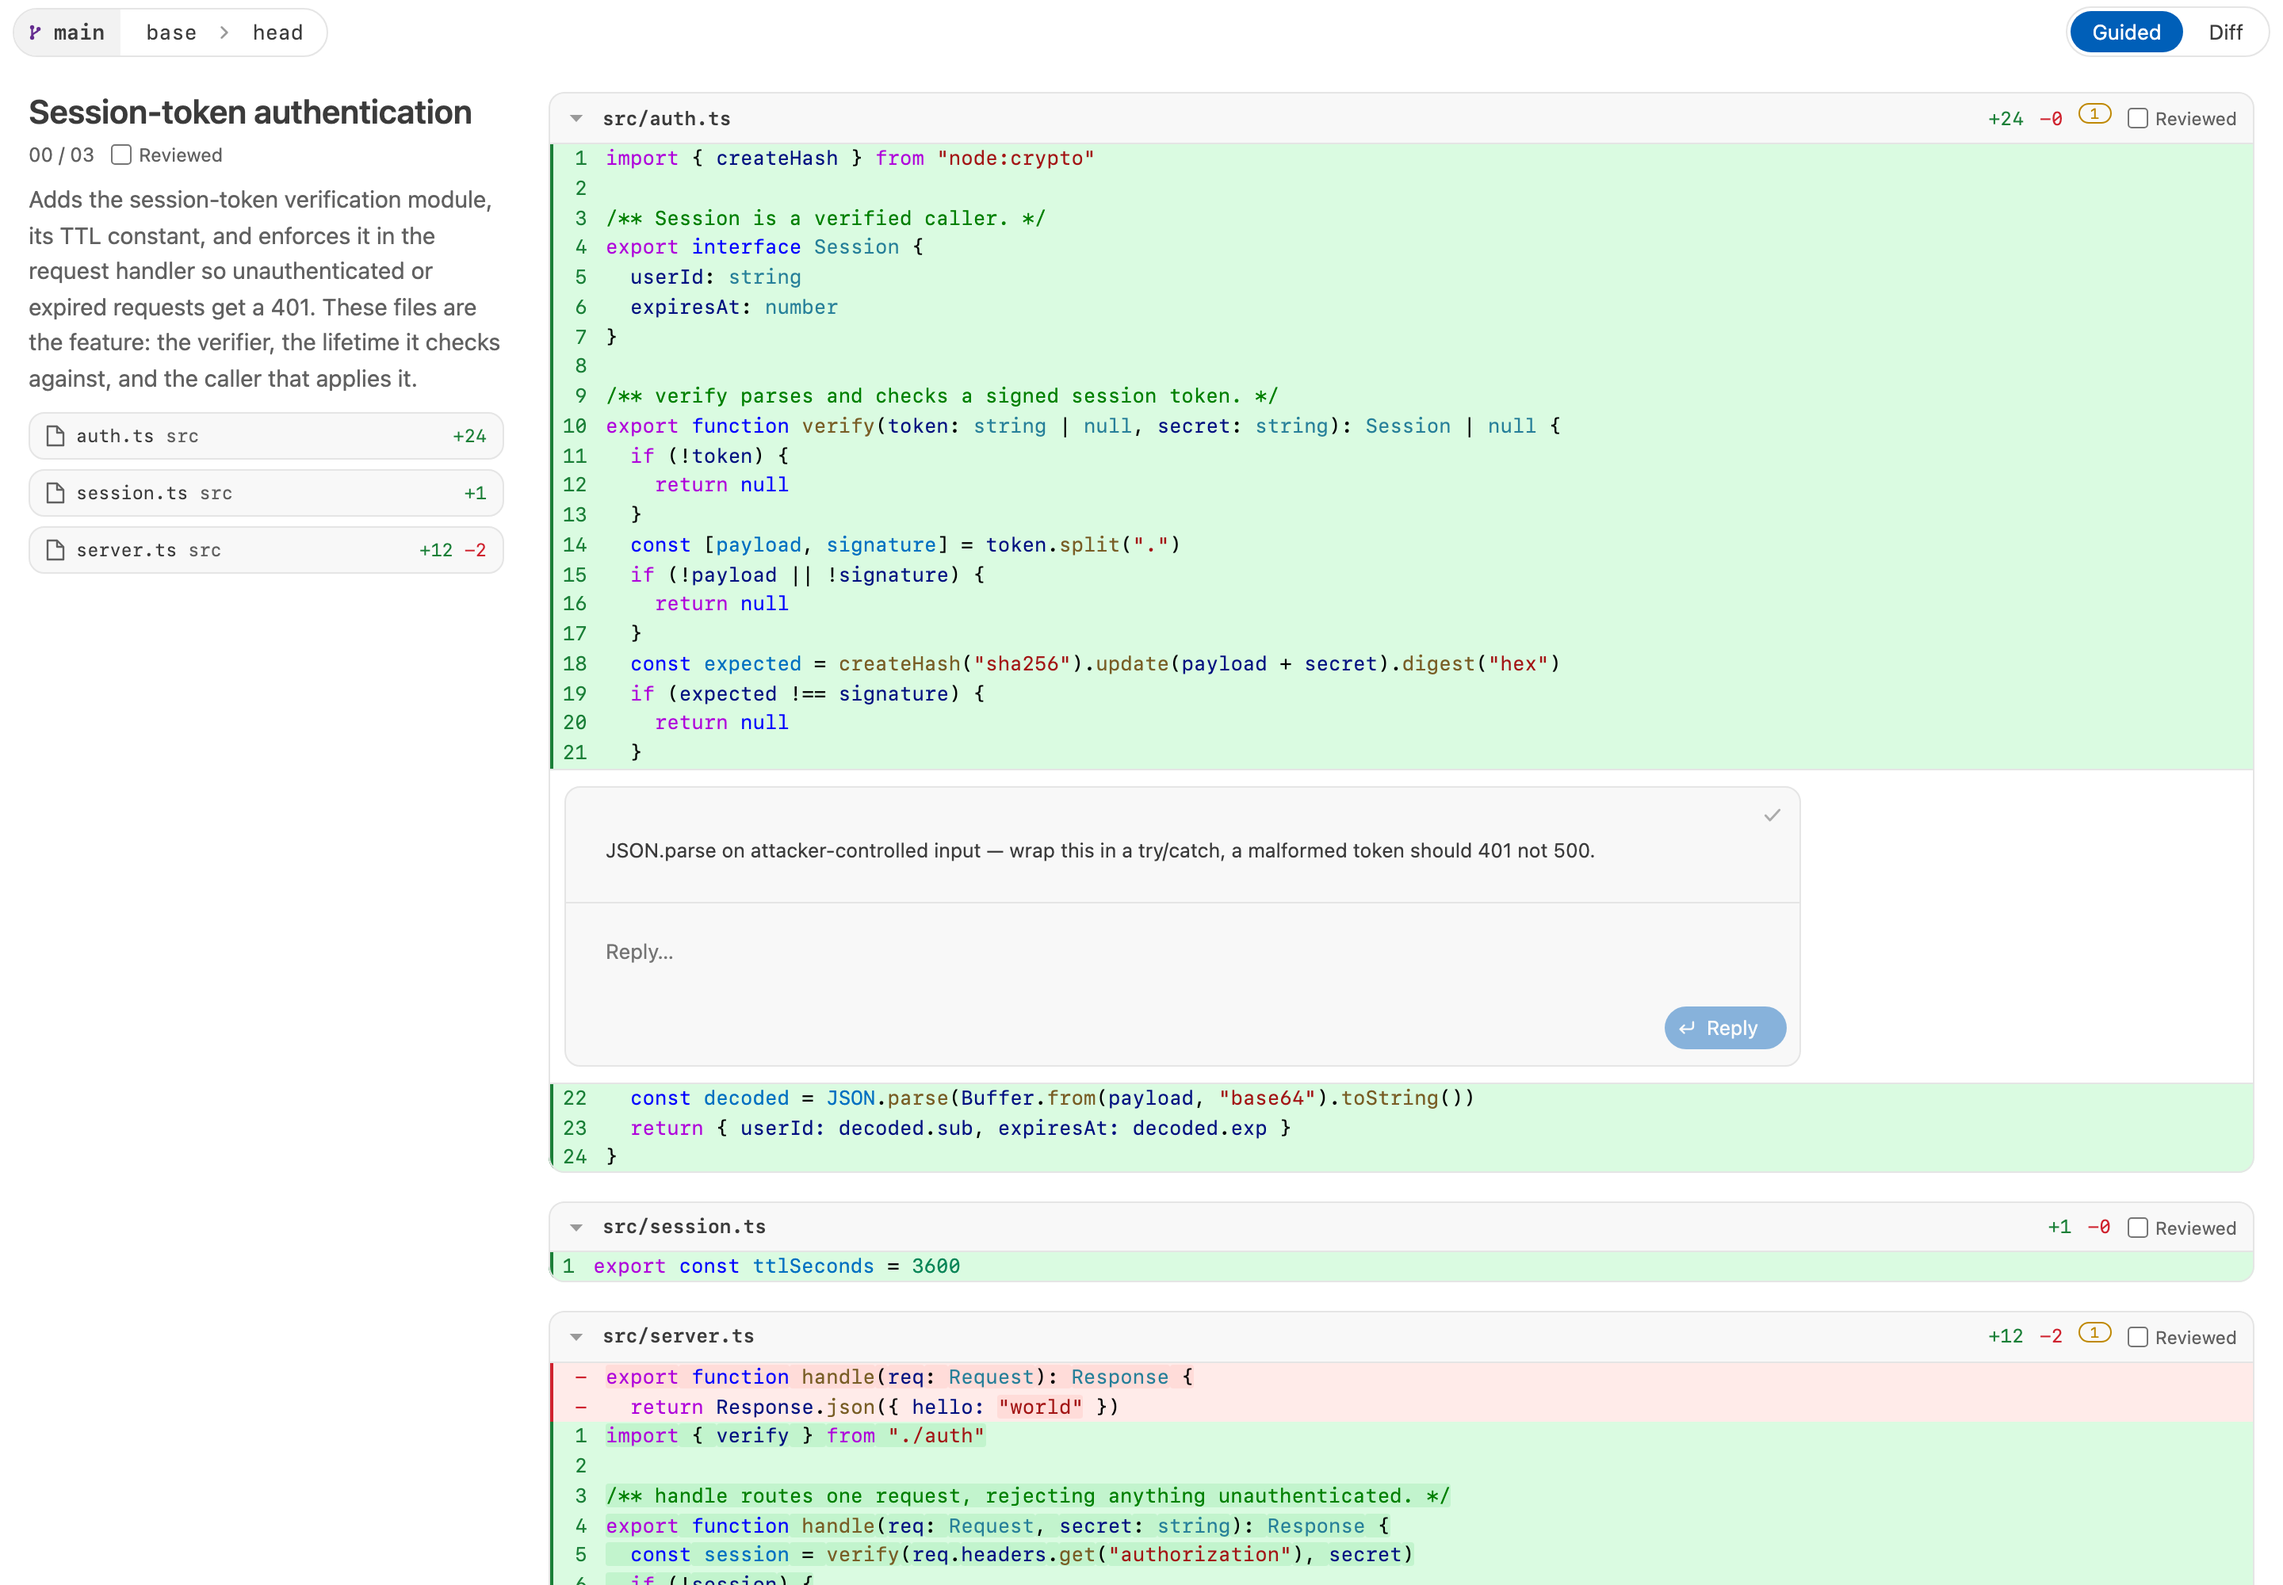
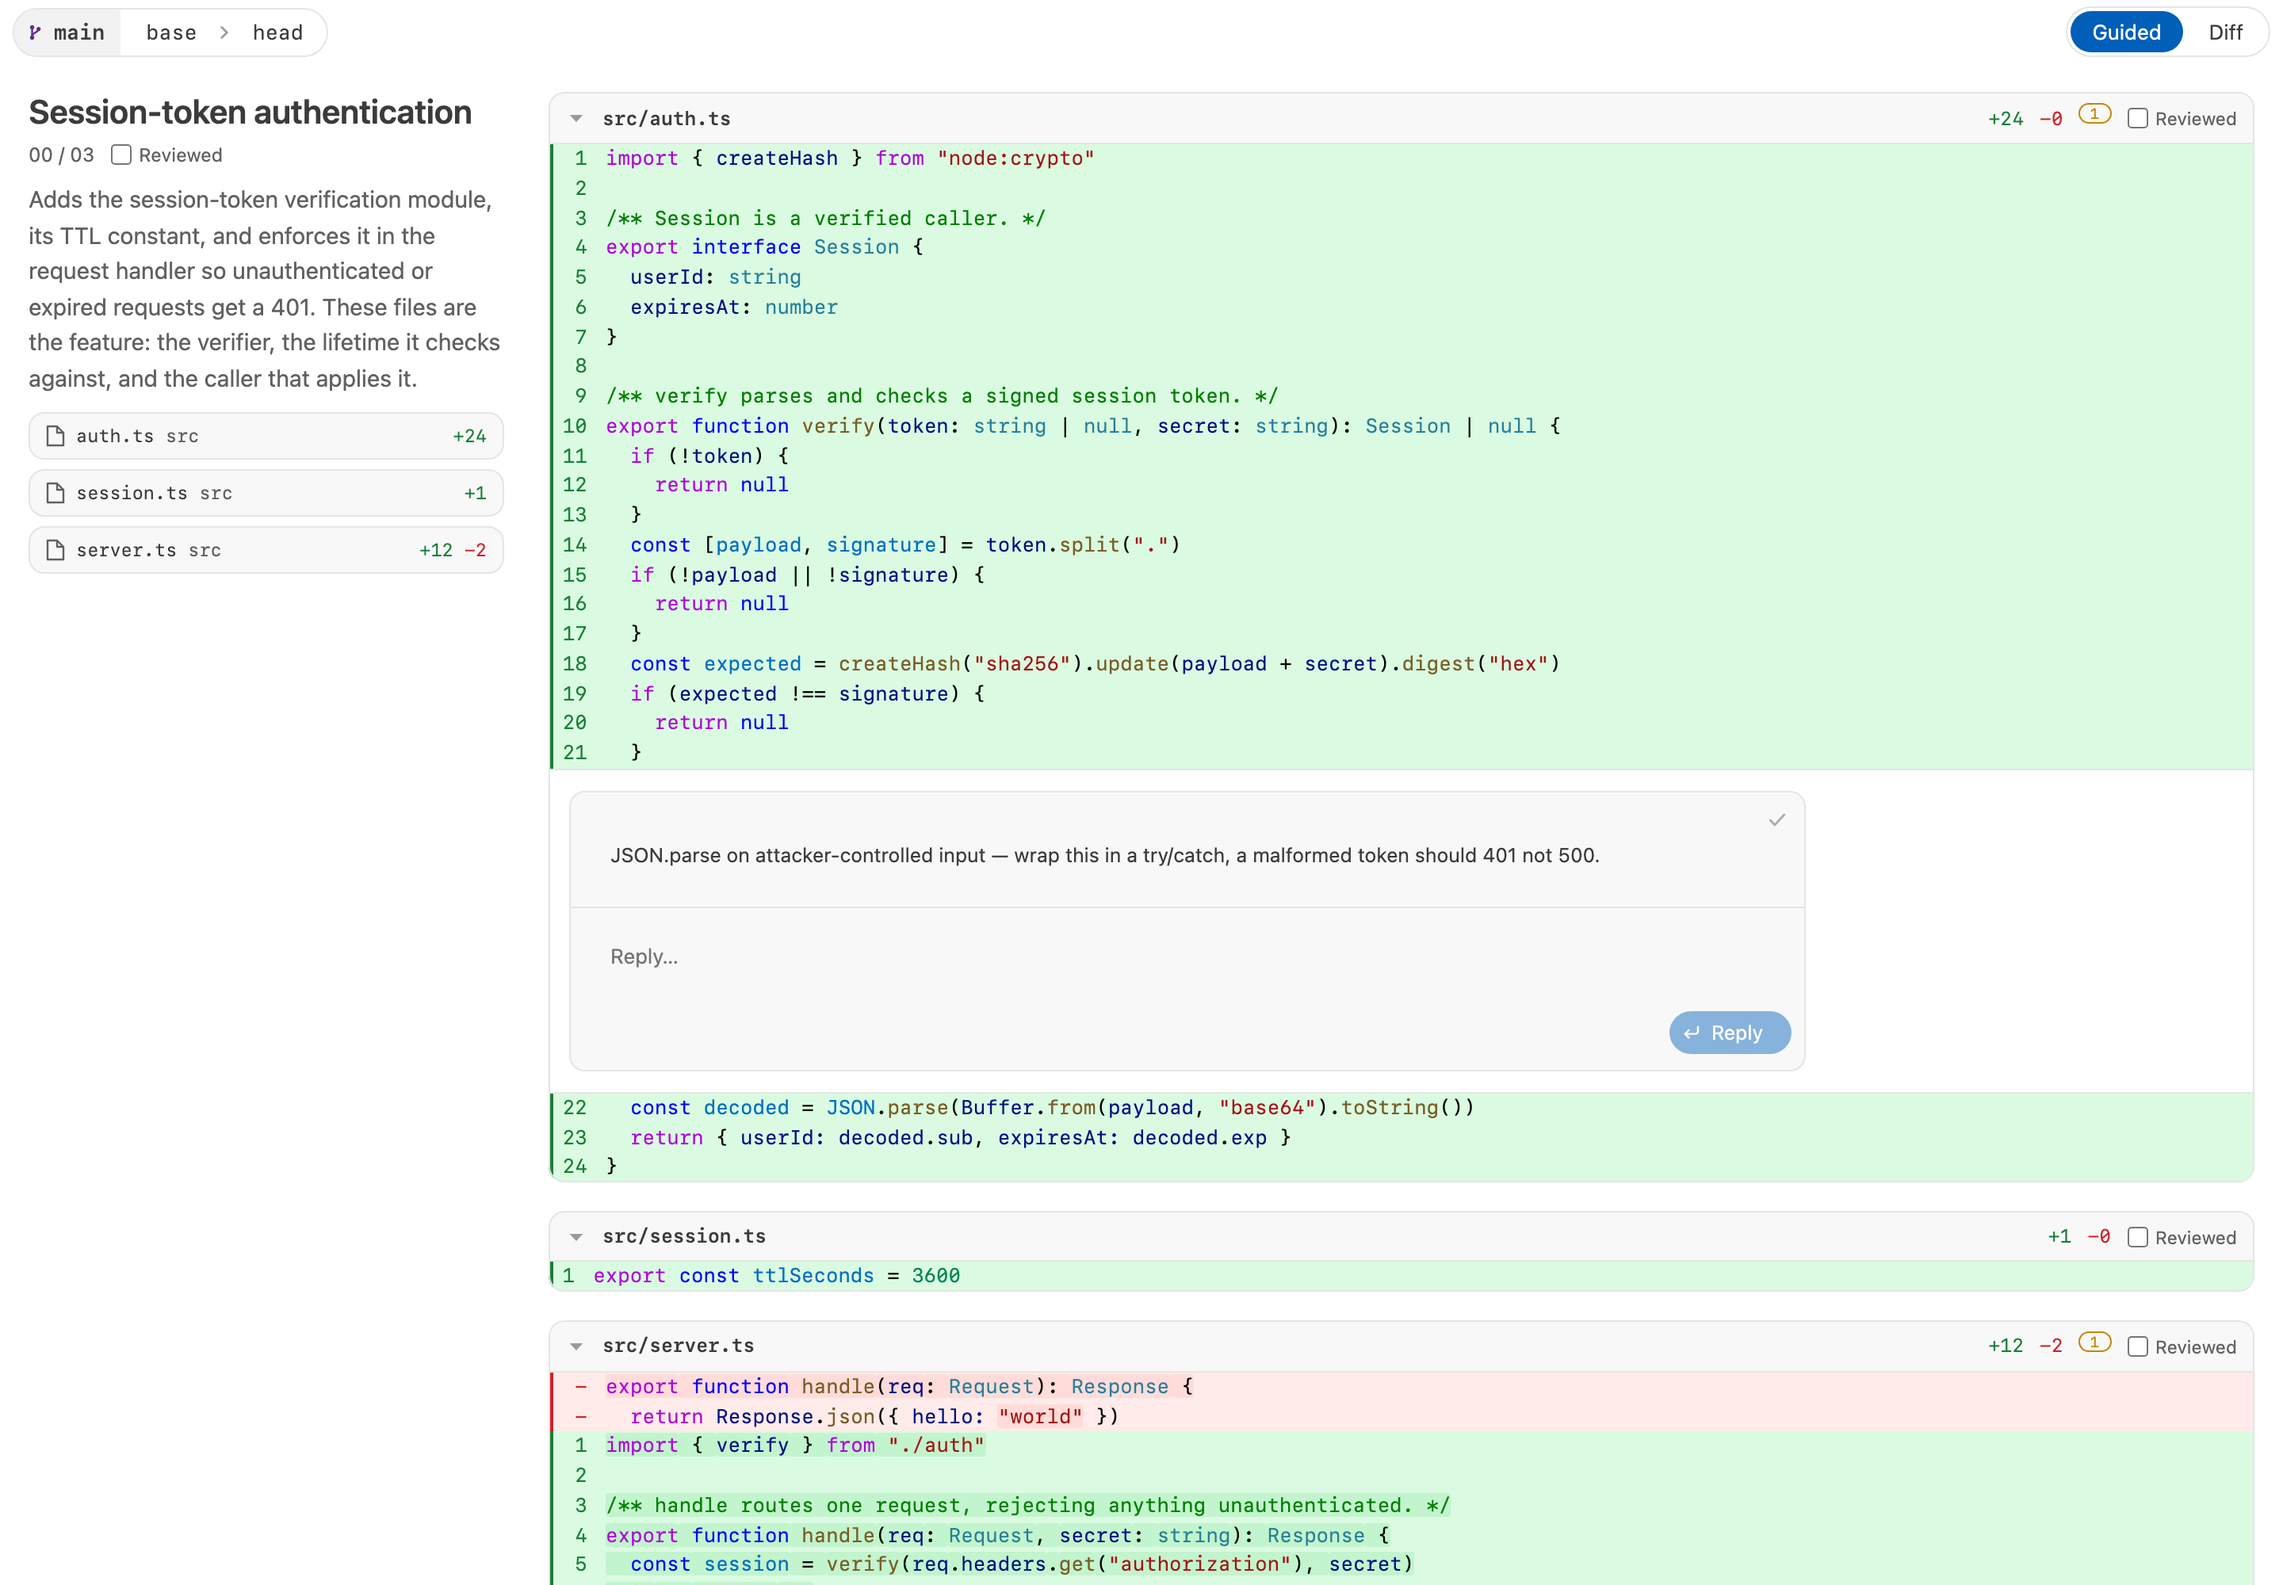
Give a comment thread the same 13px on every side, and the full row in one column

Changed region(s): [[0.25, 0.62, 1.0, 1.0], [0.25, 0.527, 0.6875, 0.558]]

diff --git a/src/webview/theme.css b/src/webview/theme.css
@@ -660,7 +660,7 @@ textarea:focus { outline: 1px solid var(--vscode-focusBorder); }
   display: flex;
   flex-direction: column;
   gap: 8px;
-  padding: 10px 12px 12px;
+  padding: 13px;
   background: var(--vscode-editor-background);
 }
 
@@ -692,7 +692,7 @@ textarea:focus { outline: 1px solid var(--vscode-focusBorder); }
 /* ── threads ───────────────────────────────────────────────────────────── */
 
 /* a thread hangs off the line it marks, not off a column of its own */
-.gr-widget { padding: 10px 9px; border-top: 1px solid var(--vscode-panel-border); border-bottom: 1px solid var(--vscode-panel-border); }
+.gr-widget { padding: 13px 12px; border-top: 1px solid var(--vscode-panel-border); border-bottom: 1px solid var(--vscode-panel-border); }
 
 .gr-thread {
   position: relative;
@@ -705,6 +705,10 @@ textarea:focus { outline: 1px solid var(--vscode-focusBorder); }
 }
 
 .gr-widget > :last-child { margin-bottom: 0; }
+
+@media (max-width: 900px) {
+  .gr-thread { max-width: none; }
+}
 
 .gr-thread.focused { border-color: var(--vscode-focusBorder); box-shadow: 0 0 0 1px var(--vscode-focusBorder); }
 
